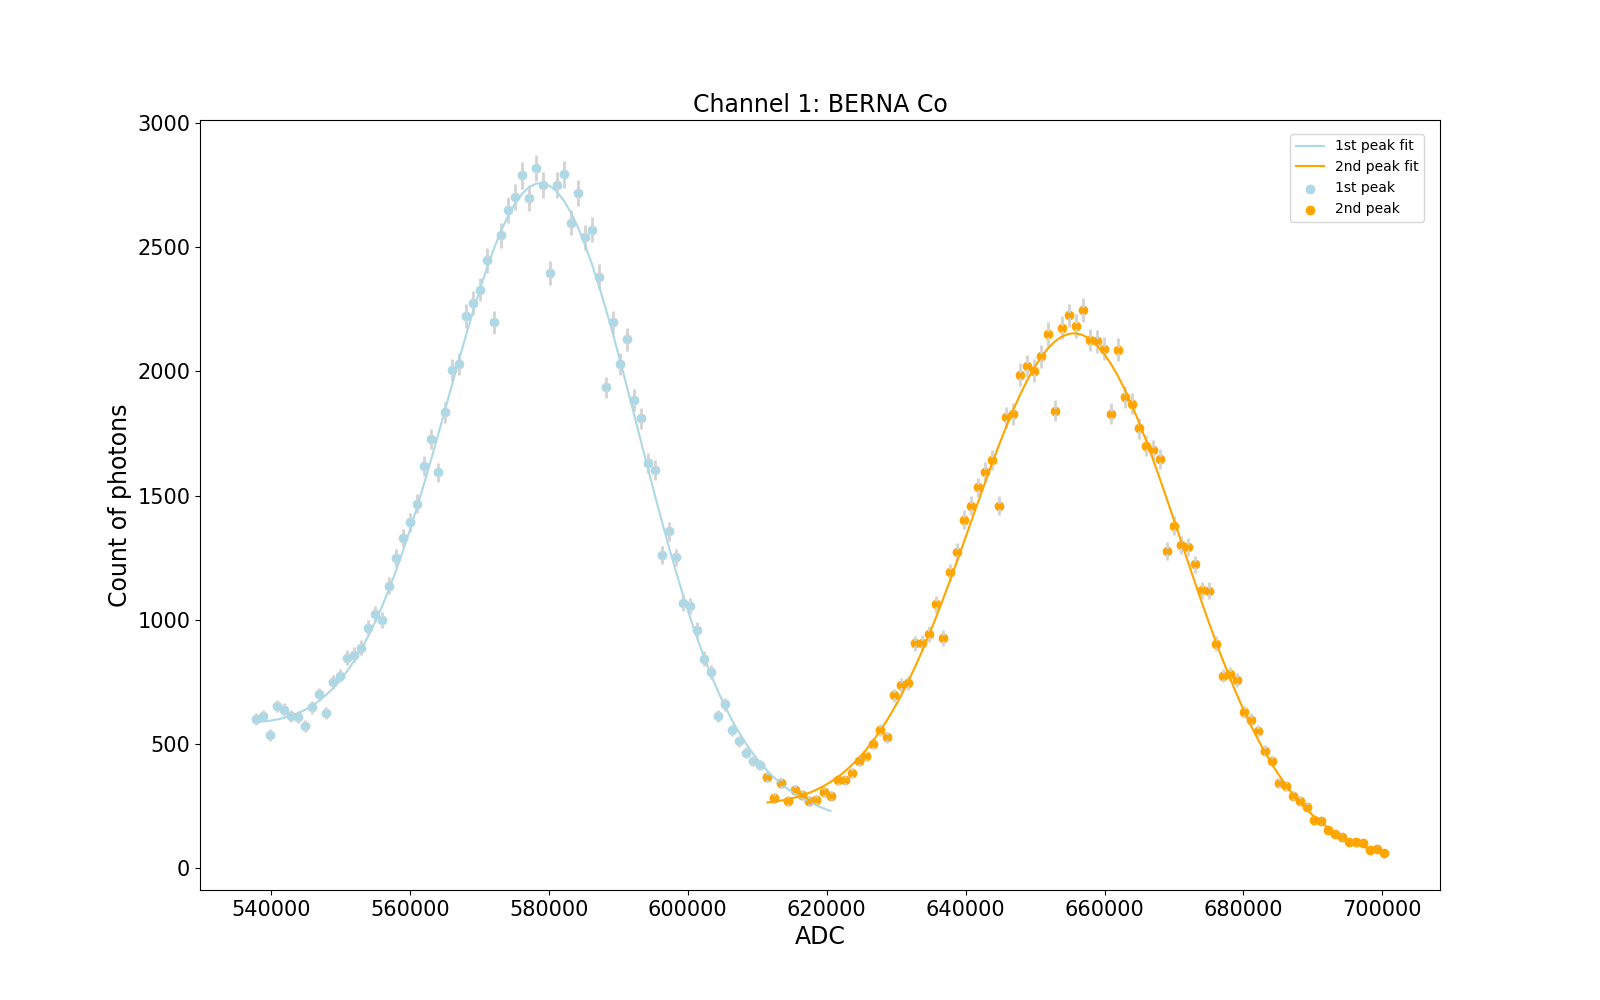
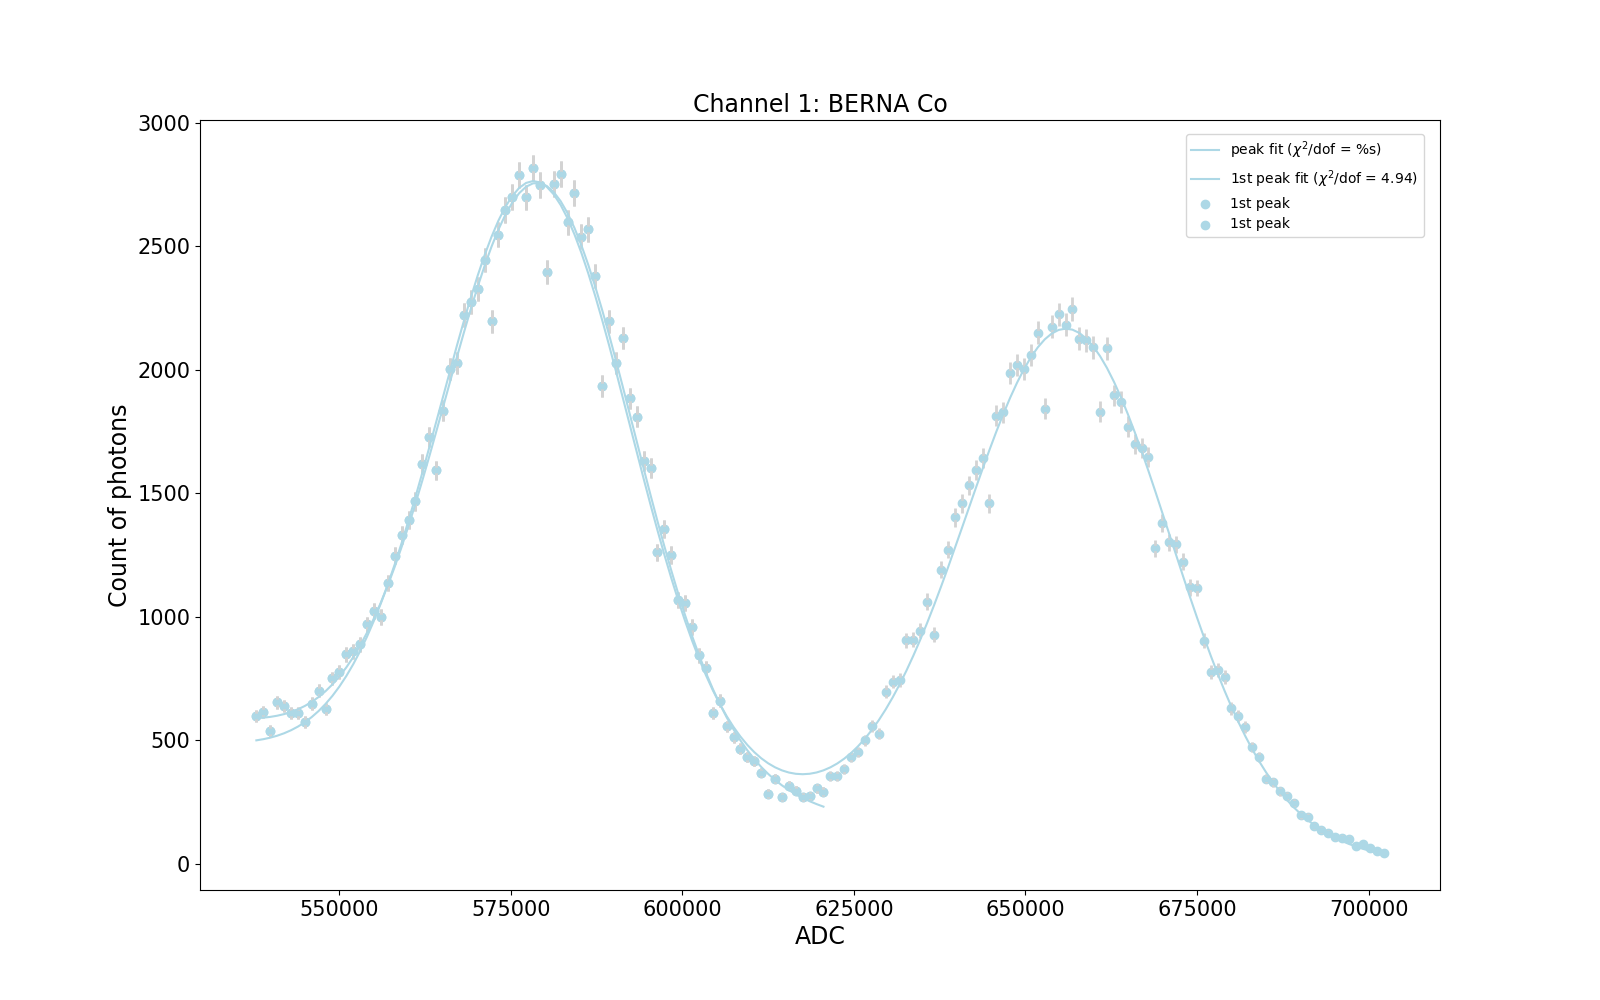
Work of the afternoon

diff --git a/auto.py b/auto.py
@@ -7,8 +7,17 @@ from terminaltables import AsciiTable
 import csv
 import pandas
 
+def chi2red(sel,*p):
+    chi2=sum(((hist[sel] - gaussian_func(binc[sel],*p) )/ err_hist[sel]) ** 2)
+    dof=len(binc[sel])-5
+    #print(chi2, dof)
+    return round(chi2/dof,2)
+
 def gaussian_func(x, A, mu, sigma, a, b):
     return A * np.exp( - (x - mu)**2 / (2 * sigma**2))+a*x+b
+
+def _2_gaussian_func(x, A1, mu1, sigma1, A2, mu2, sigma2, a, b):
+    return A1 * np.exp( - (x - mu1)**2 / (2 * sigma1**2))+a*x+b+A2 * np.exp( - (x - mu2)**2 / (2 * sigma2**2))
 
 Elements=['Co', 'Na', 'Cs']
 Channel=['ch1', 'ch2', 'ch3']
@@ -41,7 +50,7 @@ for k,el in enumerate(Elements):
     E3 = np.array(channel_3['E3'])
 
     E = [E1, E2, E3]
-    parameters1 = [['Channel', 'Amplitude', 'Average', 'Sigma', 'a', 'b']]
+    parameters1 = [['Channel', 'Amplitude', 'Average', 'AverageError', 'Sigma', 'SigmaError', 'a', 'b']]
     #parameters2 = [['Channel', 'Amplitude', 'Average', 'Sigma', 'a', 'b']]
     parameters2 = []
 
@@ -52,44 +61,62 @@ for k,el in enumerate(Elements):
         err_hist=np.sqrt(hist)
         conr = (binc>2*10**5)
         m = np.where(hist == np.max(hist[conr]))
-        sel = (binc>(binc[m]*0.93))*(binc<(binc[m]*1.07))
-        mean = np.mean(binc[sel])
+        if (el == 'Co'):
+            sel_2max = (binc>(binc[m]*1.07))
+            maxim = np.where(hist == np.max(hist[sel_2max]))
+            defin = (binc>(binc[m]*0.93))*(binc<binc[maxim]*1.07)
+            mean_2max = np.mean(binc[sel_2max])
+            print(binc[m], binc[maxim])
+            par_2max, par_va_2max = curve_fit(_2_gaussian_func, binc[defin], hist[defin], p0=[np.max(hist), binc[m][0], binc[m][0]*0.01, np.max(hist), binc[maxim][0], binc[maxim][0]*0.01, 1, 1 ],sigma=err_hist[defin],absolute_sigma=True)
+            print(*par_2max)
 
-        par, par_var=curve_fit(gaussian_func, binc[sel], hist[sel], p0=[np.max(hist), mean, mean*0.01, 1, 1],sigma=err_hist[sel],absolute_sigma=True)
-        sel_off = (binc>(par[1]-3*par[2]))*(binc<(par[1]+3*par[2]))
-    #    mean = np.mean(binc[sel_off])
+            plt.figure(10*k+i+1, figsize=(16,10))
+            g1=plt.scatter(binc[defin],hist[defin],label='1st peak',color='lightblue')
+            plt.errorbar(binc[defin], hist[defin], err_hist[defin],fmt='.', color='lightblue',ecolor='lightgray', elinewidth=2, capsize=0)
+            g2=plt.plot(binc[defin], _2_gaussian_func(binc[defin], *par_2max),label='peak fit'+' ($\chi^2$/dof = %s'+')',color='lightblue')
 
-        par_off, par_var_off = curve_fit(gaussian_func, binc[sel_off], hist[sel_off], p0=par, sigma=err_hist[sel_off],absolute_sigma=True)
+        if (el == 'Na' or 'Cs'):
+            sel = (binc>(binc[m]*0.93))*(binc<(binc[m]*1.07))
+            mean = np.mean(binc[sel])
 
-        parameters1.append([i+1, par_off[0],par_off[1],par_off[2],par_off[3],par_off[4]])
+            par, par_var=curve_fit(gaussian_func, binc[sel], hist[sel], p0=[np.max(hist), mean, mean*0.01, 1, 1],sigma=err_hist[sel],absolute_sigma=True)
+            sel_off = (binc>(par[1]-3*par[2]))*(binc<(par[1]+3*par[2]))
+        #    mean = np.mean(binc[sel_off])
 
-        plt.figure(10*k+i+1, figsize=(16,10))
-        g1=plt.scatter(binc[sel_off],hist[sel_off],label='1st peak',color='lightblue')
-        plt.errorbar(binc[sel_off], hist[sel_off], err_hist[sel_off],fmt='.', color='lightblue',ecolor='lightgray', elinewidth=2, capsize=0)
-        g2=plt.plot(binc[sel_off], gaussian_func(binc[sel_off], *par_off),label='1st peak fit',color='lightblue')
+            par_off, par_var_off = curve_fit(gaussian_func, binc[sel_off], hist[sel_off], p0=par, sigma=err_hist[sel_off],absolute_sigma=True)
+            mu_err = np.sqrt(np.diag(par_var_off)[1])
+            sigma_err = np.sqrt(np.diag(par_var_off)[2])
+            parameters1.append([i+1, par_off[0],par_off[1], mu_err, par_off[2], sigma_err, par_off[3],par_off[4]])
 
-        if (el=='Co'):
+            plt.figure(10*k+i+1, figsize=(16,10))
+            g1=plt.scatter(binc[sel_off],hist[sel_off],label='1st peak',color='lightblue')
+            plt.errorbar(binc[sel_off], hist[sel_off], err_hist[sel_off],fmt='.', color='lightblue',ecolor='lightgray', elinewidth=2, capsize=0)
+            g2=plt.plot(binc[sel_off], gaussian_func(binc[sel_off], *par_off),label='1st peak fit'+' ($\chi^2$/dof = %s'%chi2red(sel_off,*par_off)+')',color='lightblue')
 
-            sel_off2 = (binc>(par[1]+3*par_off[2]))
-            m = np.where(hist == np.max(hist[sel_off2]))
-            sel_new = (binc>(binc[m]*0.93))*(binc<(binc[m]*1.07))
-            mean_new = np.mean(binc[sel_new])
+            if (el=='Na'): # or 'Na'
+
+                sel_off2 = (binc>(par[1]+3*par_off[2]))
+                ma = np.where(hist == np.max(hist[sel_off2]))
+                c=binc[ma]
+                d=np.max(c)
+                # print(binc[sel_off2])
+                # print(c)
+                # print(type(c))
+                sel_new = (binc>(d*0.90))*(binc<(d*1.10))
+                mean_new = np.mean(binc[sel_new])
 
 
-            par_new, par_var_new=curve_fit(gaussian_func, binc[sel_new], hist[sel_new], p0=[np.max(hist[sel_off2]), mean_new, mean_new*0.01, 1, 1],sigma=err_hist[sel_new],absolute_sigma=True)
-            sel_off_new = (binc>(par_new[1]-3*par_new[2]))*(binc<(par_new[1]+3*par_new[2]))
-        #    mean = np.mean(binc[sel_off_new])
-        #    print(mean)
-        #    print(binc[sel_off_new], hist[sel_off_new])
-        #    print(par_new)
+                par_new, par_var_new=curve_fit(gaussian_func, binc[sel_new], hist[sel_new], p0=[np.max(hist[sel_off2]), mean_new, mean_new*0.01, 1, 1],sigma=err_hist[sel_new],absolute_sigma=True)
+                sel_off_new = (binc>(par_new[1]-3*par_new[2]))*(binc<(par_new[1]+3*par_new[2]))
 
-            par_off, par_var_off = curve_fit(gaussian_func, binc[sel_off_new], hist[sel_off_new], p0=par_new, sigma=err_hist[sel_off_new],absolute_sigma=True)
+                par_off, par_var_off = curve_fit(gaussian_func, binc[sel_off_new], hist[sel_off_new], p0=par_new, sigma=err_hist[sel_off_new],absolute_sigma=True)
+                mu_err = np.sqrt(np.diag(par_var_off)[1])
+                sigma_err = np.sqrt(np.diag(par_var_off)[2])
+                parameters2.append([i+1, par_off[0], par_off[1], mu_err, par_off[2], sigma_err, par_off[3],par_off[4]])
 
-            parameters2.append([i+1, par_off[0], par_off[1],par_off[2],par_off[3],par_off[4]])
-
-            g3=plt.scatter(binc[sel_off_new],hist[sel_off_new],label='2nd peak',color='orange')
-            plt.errorbar(binc[sel_off_new], hist[sel_off_new], err_hist[sel_off_new],fmt='.',color='orange',ecolor='lightgray', elinewidth=2, capsize=0)
-            g4=plt.plot(binc[sel_off_new], gaussian_func(binc[sel_off_new], *par_off),label='2nd peak fit',color='orange')
+                g3=plt.scatter(binc[sel_off_new],hist[sel_off_new],label='2nd peak',color='orange')
+                plt.errorbar(binc[sel_off_new], hist[sel_off_new], err_hist[sel_off_new],fmt='.',color='orange',ecolor='lightgray', elinewidth=2, capsize=0)
+                g4=plt.plot(binc[sel_off_new], gaussian_func(binc[sel_off_new], *par_off),label='2nd peak fit'+' ($\chi^2$/dof = %s'%chi2red(sel_off,*par_off)+')',color='orange')
 
         plt.title(Title[i]+' '+el,fontsize=17)
         plt.xlabel('ADC',fontsize=17)

diff --git a/calibration.py b/calibration.py
@@ -1,0 +1,97 @@
+import numpy as np
+from scipy.stats import norm
+import matplotlib.pyplot as plt
+import pandas as pd
+from scipy.optimize import curve_fit
+from terminaltables import AsciiTable
+import csv
+import pandas as pd
+
+def Cal(E,a):
+    i=a*E
+    return(i)
+
+def Reso(E,k):
+    i=2.35*np.sqrt(k/E)
+    return(i)
+
+def Calibration(ADC,err_ADC,ADC_Width,err_ADC_width,E_exp):  ##Channel number is a word; ex: "channel 2"
+    """Calibration fit C=f(E)"""
+
+    par_Cal, par_Cal_var=curve_fit(Cal,E_exp,ADC,sigma=err_ADC,absolute_sigma=True)
+
+    a=par_Cal[0]
+    err_a=np.sqrt(np.diag(par_Cal_var)[0])
+
+    plt.figure(1)
+    plt.errorbar(E,ADC,yerr=err_ADC,fmt='b.',capsize=4)
+    plt.plot(E_exp,Cal(E_exp,par_Cal[0]),c='k',label="ajustement function")
+    plt.title('Calibration ADC=f(E)',fontsize=20)
+    plt.xlabel('E (keV)')
+    plt.ylabel('ADC')
+    plt.legend()
+    plt.show()
+    return ([a,err_a])
+#
+# def Resolution(ADC,err_ADC,ADC_Width,err_ADC_width,a,err_a,Channel_number):    ##a is the coeff ADC=a*E so in kev-1 and Channel number is a word; ex: "channel 2"
+#
+#     """Resolution fit"""
+#     ###First define E and E_width with their respective uncertainties
+#     E=ADC/a
+#     err_E=np.sqrt((err_ADC/a)**2+(ADC*err_a/a**2)**2)
+#
+#     E_Width=ADC_width/a
+#     err_E_Width=np.sqrt((err_ADC_Width/a)**2+(ADC_Width*err_a/a**2)**2)
+#
+#     ###Define the resolution as R
+#     R=E_Width/E
+#     err_R=np.sqrt((err_E_Width/E)**2+(err_E*E_Width/E**2)**2)
+#
+#     par_Res, par_Res_var=curve_fit(Res,E,R,sigma=err_R,absolute_sigma=True)
+#
+#     plt.figure(2)
+#     plt.errorbar(E,R,xerr=err_E,yerr=err_R,fmt='b.',capsize=4)
+#     plt.plot(E,Res(np.linspace(min(E),max(E),1000),par_Res[0]),c='k',label="ajustement function")
+#     plt.title('Resolution R=f(E)',fontsize=20)
+#     plt.xlabel('E (keV)')
+#     plt.ylabel('R')
+#     plt.legend()
+#     plt.show()
+#     k=par_Res[0]**2
+#     err_k=np.sqrt(np.diag(par_Res_var)[0])*par_Res[0]*np.sqrt(2)
+#
+#     return(Channel_number," k=", k,"+-",err_k,"keV")
+
+
+
+
+
+
+Elements=['Co', 'Na', 'Cs']
+Channels=['Ch1', 'Ch2', 'Ch3']
+
+##creating empty dataframes to regroup the Mean and width values of the pics by channels instead of sources
+Ch1=pd.DataFrame(columns=['Channel','Amplitude','Average', 'AverageError','Sigma', 'SigmaError','a','b'])
+Ch2=pd.DataFrame(columns=['Channel','Amplitude','Average', 'AverageError','Sigma', 'SigmaError','a','b'])
+Ch3=pd.DataFrame(columns=['Channel','Amplitude','Average','AverageError','Sigma', 'SigmaError','a','b'])
+
+for el in Elements:
+    data= pd.read_csv('Parameters'+el+'.csv',delimiter=" ")
+
+    data1=data.loc[(data['Channel']==1),:]  ##"2lines" dataframe conrresponding to the channel1 (because 2 pics )
+    data2=data.loc[(data['Channel']==2),:] ##"2lines" dataframe conrresponding to the channel2
+    data3=data.loc[(data['Channel']==3),:] ##"2lines" dataframe conrresponding to the channel3
+
+    Ch1=pd.concat(([Ch1,data1]))
+    Ch2=pd.concat(([Ch2,data2]))
+    Ch3=pd.concat(([Ch3,data3]))
+
+Ch1=np.array(Ch1)   ##Vectorizing the dataframes
+Ch2=np.array(Ch2)
+Ch2=np.array(Ch2)
+
+# Frame123=pd.concat([Ch1,Ch2,Ch3])   ## 5 first lines is channel 1, the 5 next channel 2
+
+E_exp=np.array([1173,1332,511,1275]) ##expected energy of the pics from the spectrums Co Na Cs in keV
+
+print(Calibration(Ch1[:,1],Ch1[:,2],Ch1[:,3],Ch1[:,4],E_exp)[0])
